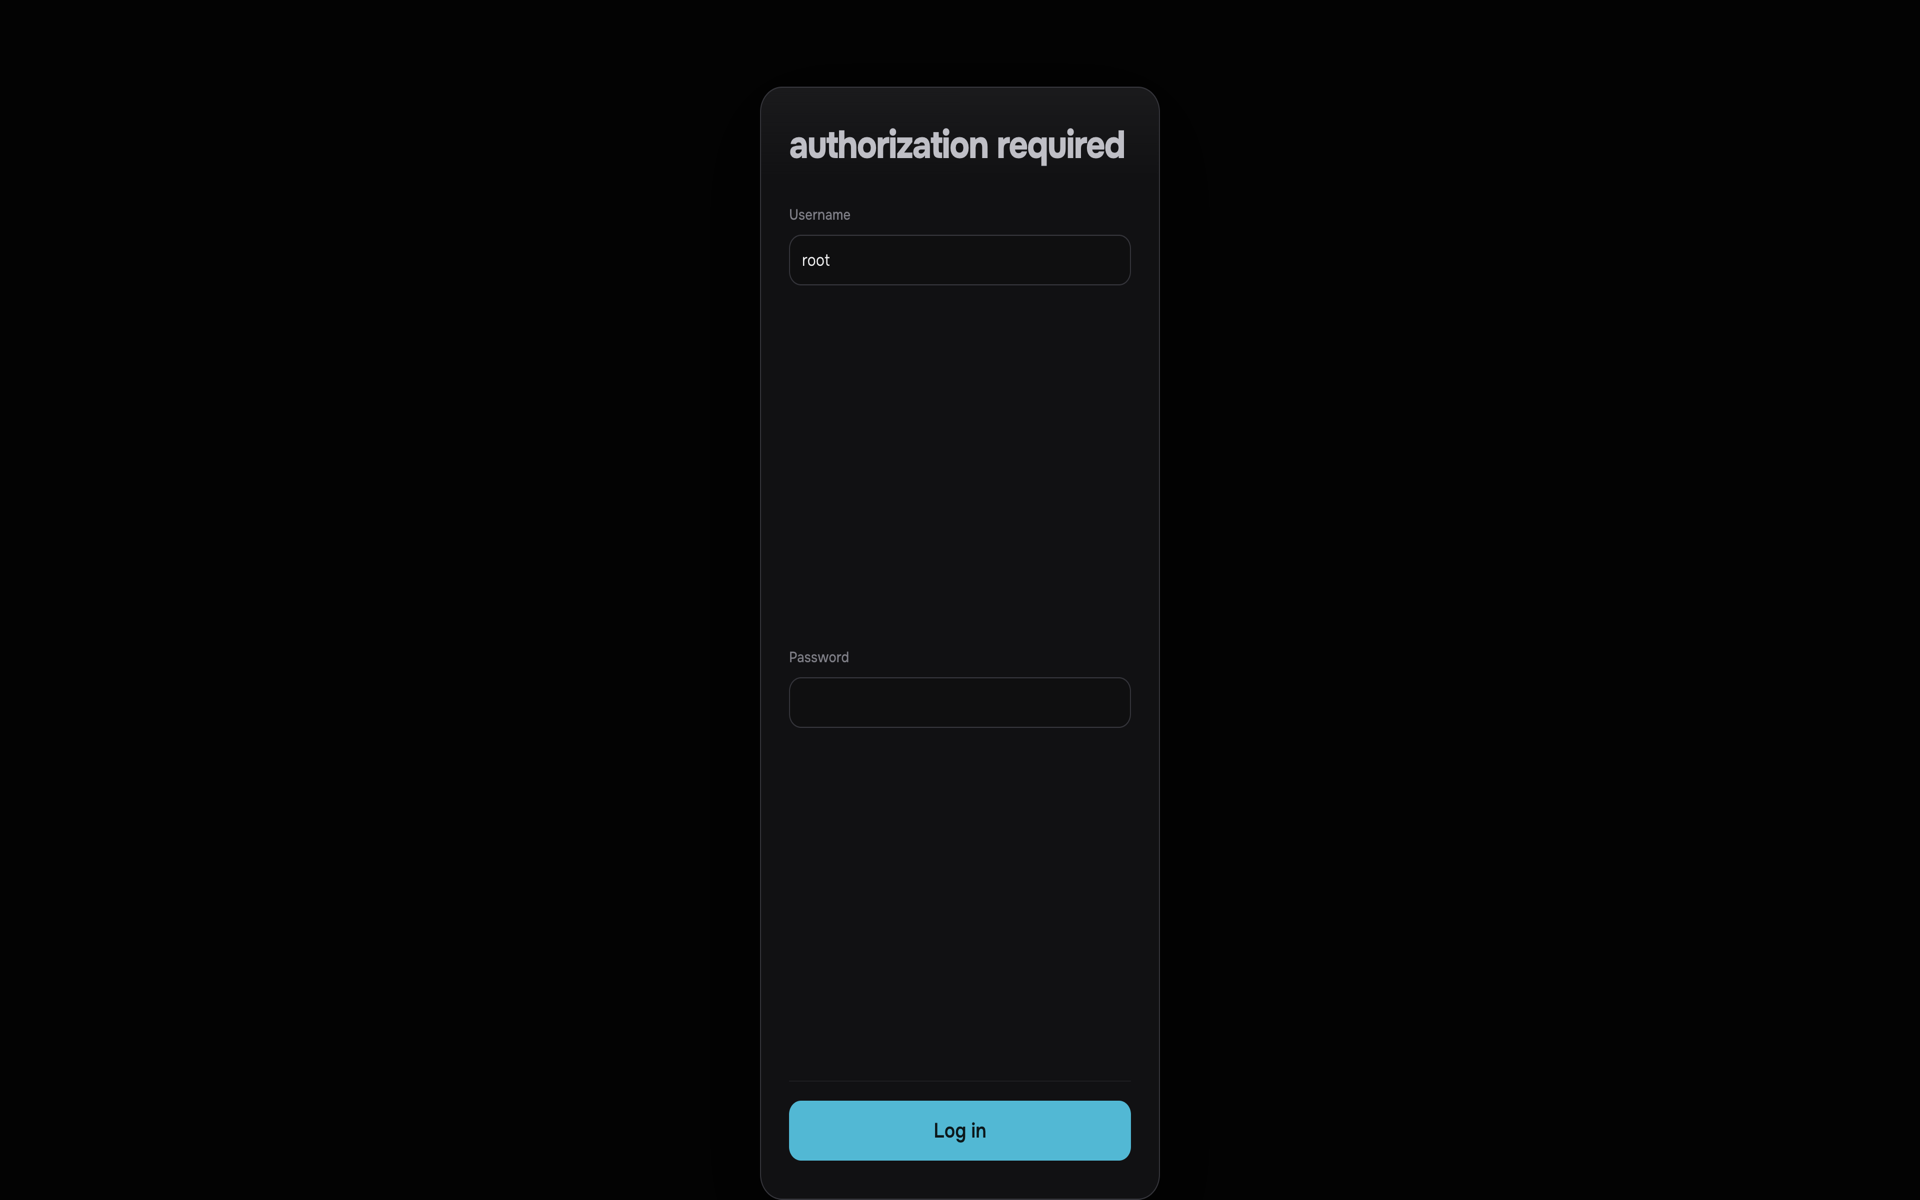
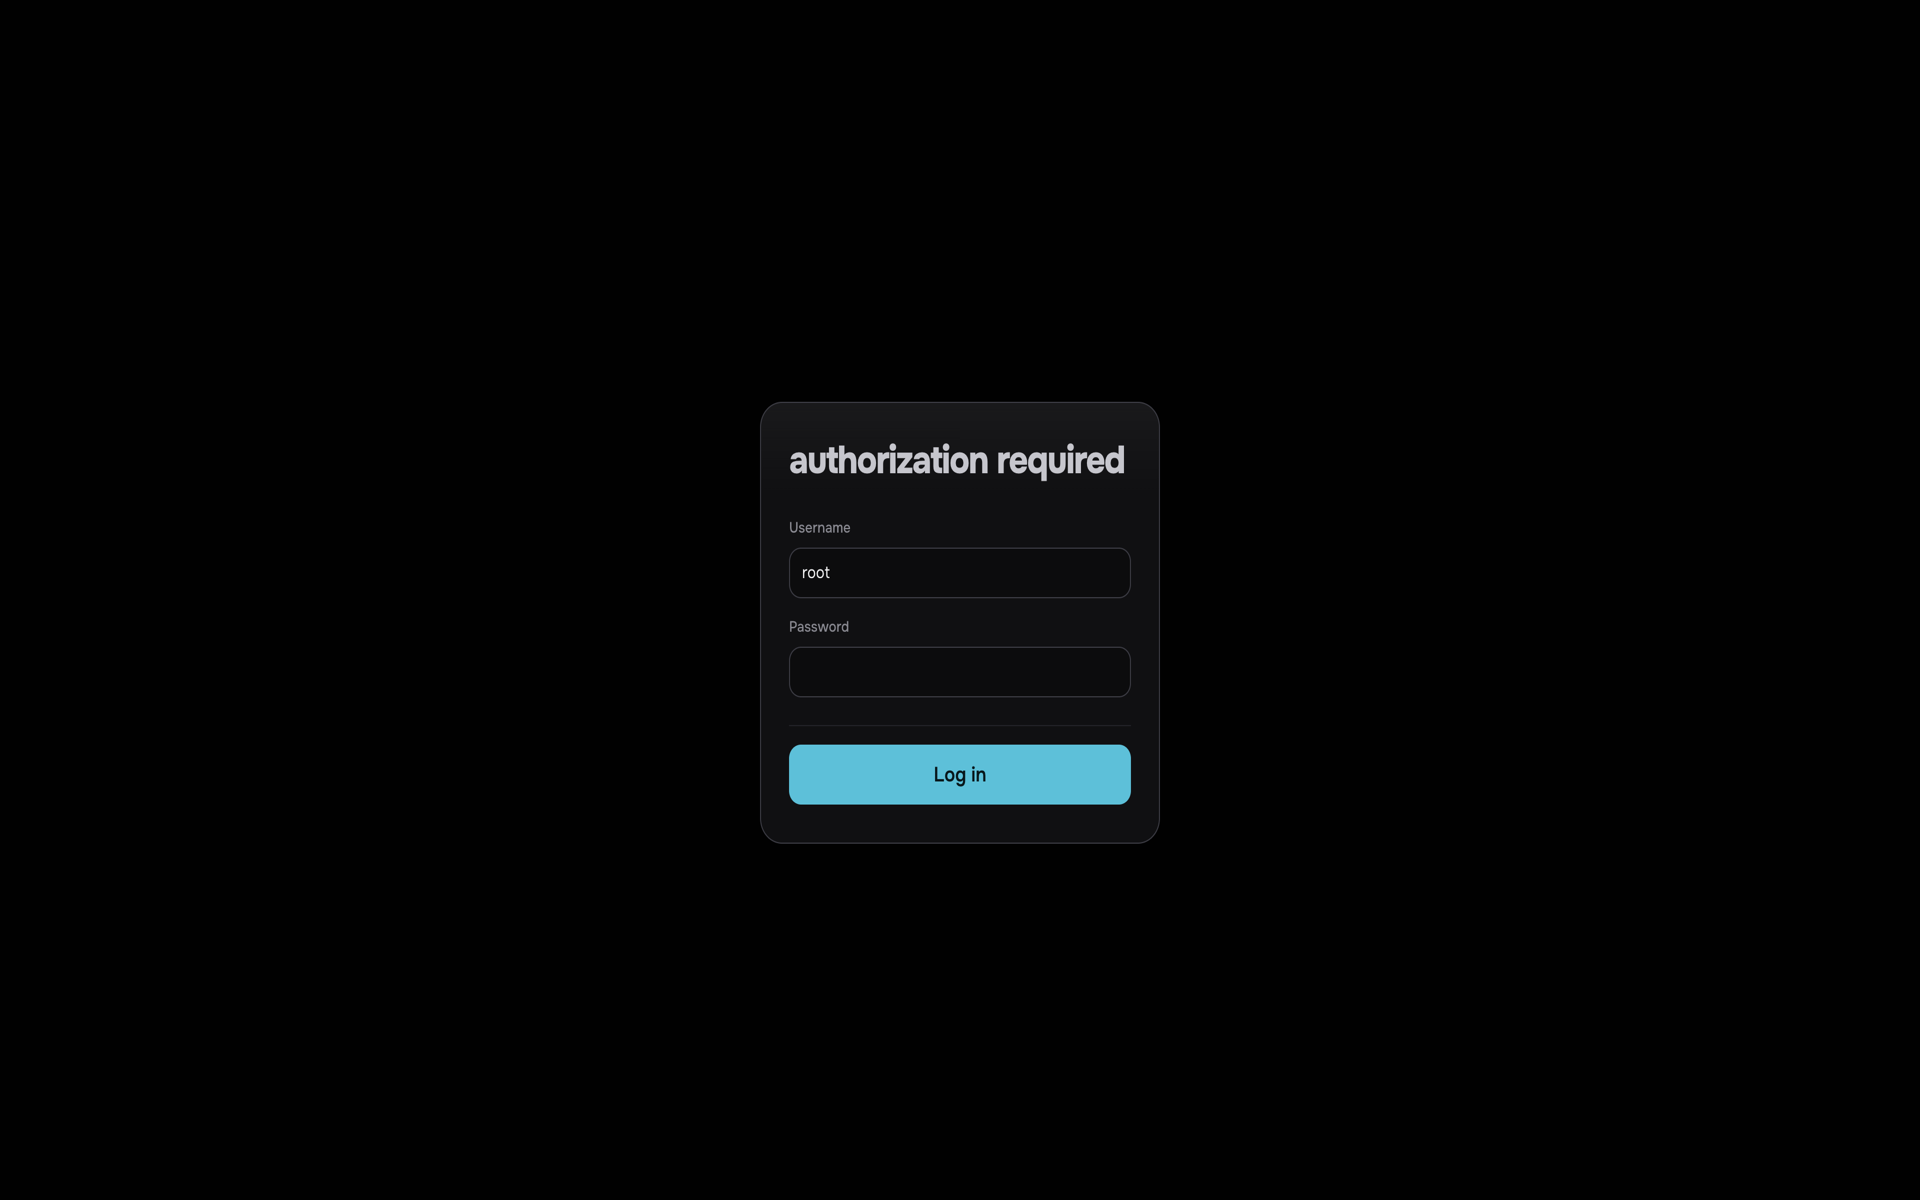
Fix login card stretch from form-row flex-basis.
Stacked login fields inherited flex:1 1 320px and blew up to 320px tall; reset flex and center the modal. Cache-bust as 1.1.4.

diff --git a/stylus/graphite.user.css b/stylus/graphite.user.css
@@ -1,7 +1,7 @@
 /* ==UserStyle==
 @name           LuCI Graphite
 @namespace      github.com/4nzor/luci-theme-graphite
-@version        1.1.3
+@version        1.1.4
 @description    Graphite: dark control-panel look for OpenWrt LuCI (Bootstrap) - sidebar navigation, card layout, ring gauges, iOS-style switches
 @homepageURL    https://github.com/4nzor/luci-theme-graphite
 @license        Apache-2.0
@@ -874,8 +874,16 @@ input[type="checkbox"]:focus-visible, input[type="radio"]:focus-visible {
 .alert-message.error, .alert-message.danger { box-shadow: inset 3px 0 0 var(--bad) !important; }
 .alert-message.success { box-shadow: inset 3px 0 0 var(--ok) !important; }
 
-#modal_overlay { background: rgba(0, 0, 0, .7) !important; backdrop-filter: blur(6px); animation: graphite-fade .18s ease both; }
+#modal_overlay {
+  display: flex !important;
+  align-items: center;
+  justify-content: center;
+  background: rgba(0, 0, 0, .7) !important;
+  backdrop-filter: blur(6px);
+  animation: graphite-fade .18s ease both;
+}
 #modal_overlay > .modal {
+  margin: 24px !important;
   padding: 28px !important;
   border: 1px solid var(--line-strong) !important;
   border-radius: var(--r-xl) !important;
@@ -888,9 +896,11 @@ input[type="checkbox"]:focus-visible, input[type="radio"]:focus-visible {
 #modal_overlay .modal .cbi-value { border: 0; }
 #modal_overlay .modal .button-row { gap: 8px; }
 
-/* login: one quiet card on the canvas, stacked fields, full-width primary */
+/* login: compact stacked card — do not inherit form-row flex-basis:320px */
 #modal_overlay > .modal.login {
   width: min(400px, calc(100vw - 32px));
+  height: auto !important;
+  max-height: none !important;
   padding: 28px 28px 24px !important;
   border-radius: 22px !important;
   background:
@@ -905,13 +915,22 @@ input[type="checkbox"]:focus-visible, input[type="radio"]:focus-visible {
   text-transform: lowercase;
   color: var(--title, var(--ink));
 }
+#modal_overlay .modal.login .cbi-map,
+#modal_overlay .modal.login .cbi-section,
+#modal_overlay .modal.login .cbi-section-node {
+  height: auto !important;
+  min-height: 0 !important;
+  margin: 0 !important;
+}
 #modal_overlay .modal.login .cbi-value {
   display: flex !important;
   flex-direction: column !important;
+  flex: none !important;
   align-items: stretch !important;
   gap: 8px;
   padding: 8px 0 !important;
   margin: 0 !important;
+  height: auto !important;
   min-height: 0 !important;
   border: 0;
 }
@@ -927,7 +946,12 @@ input[type="checkbox"]:focus-visible, input[type="radio"]:focus-visible {
   color: var(--ink-3) !important;
 }
 #modal_overlay .modal.login .cbi-value-field {
+  /* global form rows use flex:1 1 320px — in a column that becomes 320px tall */
+  flex: none !important;
+  flex-basis: auto !important;
   width: 100% !important;
+  height: auto !important;
+  min-height: 0 !important;
   float: none !important;
   margin: 0 !important;
   padding: 0 !important;
@@ -935,15 +959,22 @@ input[type="checkbox"]:focus-visible, input[type="radio"]:focus-visible {
 #modal_overlay .modal.login input[type="text"],
 #modal_overlay .modal.login input[type="password"] {
   width: 100% !important;
+  height: auto !important;
   min-height: 44px;
   box-sizing: border-box;
+}
+#modal_overlay .modal.login hr {
+  margin: 16px 0 4px !important;
+  border: 0;
+  border-top: 1px solid var(--line);
+  opacity: .7;
 }
 #modal_overlay .modal.login .alert-message { margin: 12px 0 4px !important; }
 #modal_overlay .modal.login .button-row,
 #modal_overlay .modal.login > .cbi-button,
 #modal_overlay .modal.login > button {
   width: 100%;
-  margin-top: 12px;
+  margin-top: 12px !important;
 }
 #modal_overlay .modal.login .cbi-button-positive,
 #modal_overlay .modal.login button.important {

diff --git a/htdocs/luci-static/graphite/graphite.css b/htdocs/luci-static/graphite/graphite.css
@@ -1,4 +1,4 @@
-/* luci-theme-graphite 1.1.3 | Apache-2.0 | built from stylus/graphite.user.css */
+/* luci-theme-graphite 1.1.4 | Apache-2.0 | built from stylus/graphite.user.css */
 /* JetBrains Mono cyrillic */
 @font-face {
   font-family: 'JetBrains Mono';
@@ -917,8 +917,16 @@ input[type="checkbox"]:focus-visible, input[type="radio"]:focus-visible {
 .alert-message.error, .alert-message.danger { box-shadow: inset 3px 0 0 var(--bad) !important; }
 .alert-message.success { box-shadow: inset 3px 0 0 var(--ok) !important; }
 
-#modal_overlay { background: rgba(0, 0, 0, .7) !important; backdrop-filter: blur(6px); animation: graphite-fade .18s ease both; }
+#modal_overlay {
+  display: flex !important;
+  align-items: center;
+  justify-content: center;
+  background: rgba(0, 0, 0, .7) !important;
+  backdrop-filter: blur(6px);
+  animation: graphite-fade .18s ease both;
+}
 #modal_overlay > .modal {
+  margin: 24px !important;
   padding: 28px !important;
   border: 1px solid var(--line-strong) !important;
   border-radius: var(--r-xl) !important;
@@ -931,9 +939,11 @@ input[type="checkbox"]:focus-visible, input[type="radio"]:focus-visible {
 #modal_overlay .modal .cbi-value { border: 0; }
 #modal_overlay .modal .button-row { gap: 8px; }
 
-/* login: one quiet card on the canvas, stacked fields, full-width primary */
+/* login: compact stacked card — do not inherit form-row flex-basis:320px */
 #modal_overlay > .modal.login {
   width: min(400px, calc(100vw - 32px));
+  height: auto !important;
+  max-height: none !important;
   padding: 28px 28px 24px !important;
   border-radius: 22px !important;
   background:
@@ -948,13 +958,22 @@ input[type="checkbox"]:focus-visible, input[type="radio"]:focus-visible {
   text-transform: lowercase;
   color: var(--title, var(--ink));
 }
+#modal_overlay .modal.login .cbi-map,
+#modal_overlay .modal.login .cbi-section,
+#modal_overlay .modal.login .cbi-section-node {
+  height: auto !important;
+  min-height: 0 !important;
+  margin: 0 !important;
+}
 #modal_overlay .modal.login .cbi-value {
   display: flex !important;
   flex-direction: column !important;
+  flex: none !important;
   align-items: stretch !important;
   gap: 8px;
   padding: 8px 0 !important;
   margin: 0 !important;
+  height: auto !important;
   min-height: 0 !important;
   border: 0;
 }
@@ -970,7 +989,12 @@ input[type="checkbox"]:focus-visible, input[type="radio"]:focus-visible {
   color: var(--ink-3) !important;
 }
 #modal_overlay .modal.login .cbi-value-field {
+  /* global form rows use flex:1 1 320px — in a column that becomes 320px tall */
+  flex: none !important;
+  flex-basis: auto !important;
   width: 100% !important;
+  height: auto !important;
+  min-height: 0 !important;
   float: none !important;
   margin: 0 !important;
   padding: 0 !important;
@@ -978,15 +1002,22 @@ input[type="checkbox"]:focus-visible, input[type="radio"]:focus-visible {
 #modal_overlay .modal.login input[type="text"],
 #modal_overlay .modal.login input[type="password"] {
   width: 100% !important;
+  height: auto !important;
   min-height: 44px;
   box-sizing: border-box;
+}
+#modal_overlay .modal.login hr {
+  margin: 16px 0 4px !important;
+  border: 0;
+  border-top: 1px solid var(--line);
+  opacity: .7;
 }
 #modal_overlay .modal.login .alert-message { margin: 12px 0 4px !important; }
 #modal_overlay .modal.login .button-row,
 #modal_overlay .modal.login > .cbi-button,
 #modal_overlay .modal.login > button {
   width: 100%;
-  margin-top: 12px;
+  margin-top: 12px !important;
 }
 #modal_overlay .modal.login .cbi-button-positive,
 #modal_overlay .modal.login button.important {
